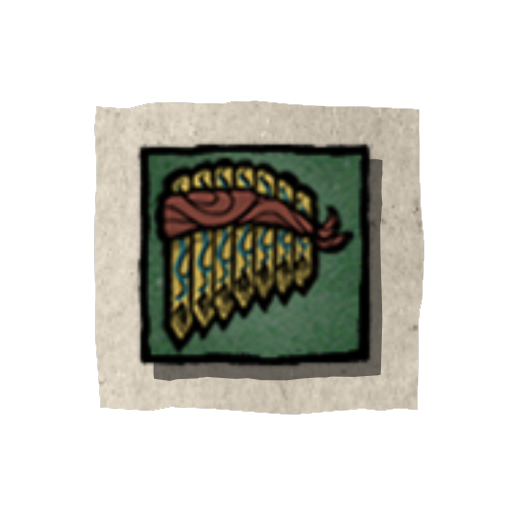
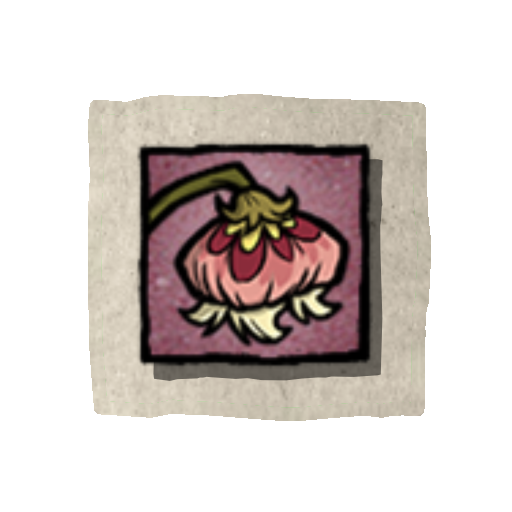
Lit Drop

Changed region(s): [[0.2812, 0.2812, 0.7188, 0.7188], [0.1562, 0.1562, 0.8438, 0.8438]]

diff --git a/Drops/Scripts/drop_item_longshot.js b/Drops/Scripts/drop_item_longshot.js
@@ -13,7 +13,7 @@ var myVar =
 
 <img class="item-frame" src="https://clifffordw.github.io/ClifffWidgets/Drops/Dropcons/Frames/Item/feast.png">
 
-<img class="bg-item" src="https://items.kleientertainment.com/images/DST/PANFLUTE_AN/verylarge">
+<img class="bg-item" src="https://items.kleientertainment.com/images/DST/PROFILEFLAIR_MUSHROOMLIGHT2AN/verylarge">
 <img class="partyhat" src="https://clifffordw.github.io/ClifffWidgets/Drops/Seasonal Icons/winterfeast.png">
 <img class="wip" src="https://i.imgur.com/QqHArTg.png">
 <img class="patreon" src="">`;

diff --git a/drop_info.php b/drop_info.php
@@ -1,1 +1,1 @@
-Drops are currently inactive! You can associate your twitch.tv account to Klei Account. Simply head on over to https://accounts.klei.com After that just watch the stream for the required time.
+Drops are active! You can associate your twitch.tv account to Klei Account. Simply head on over to https://accounts.klei.com After that just watch the stream for the required time: Current Set - Nautical Collection - Icon (30 Minutes) - Portrait (1 Hour 30 Minutes) - The Eclectic Glowcap (3 Hours). Be sure to collect your drop at https://www.twitch.tv/drops/inventory
